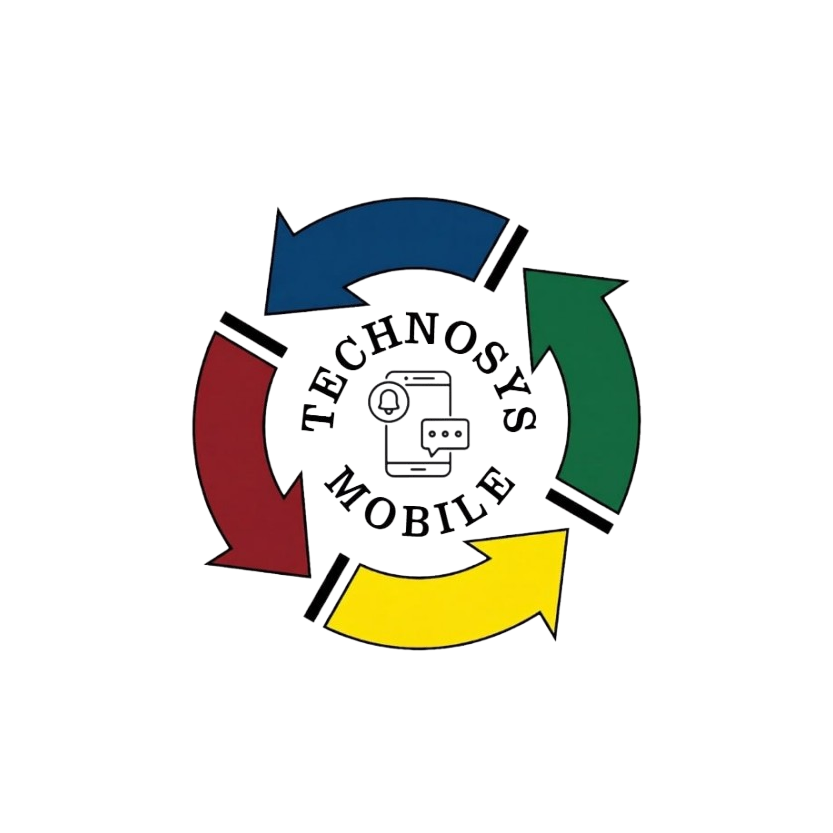
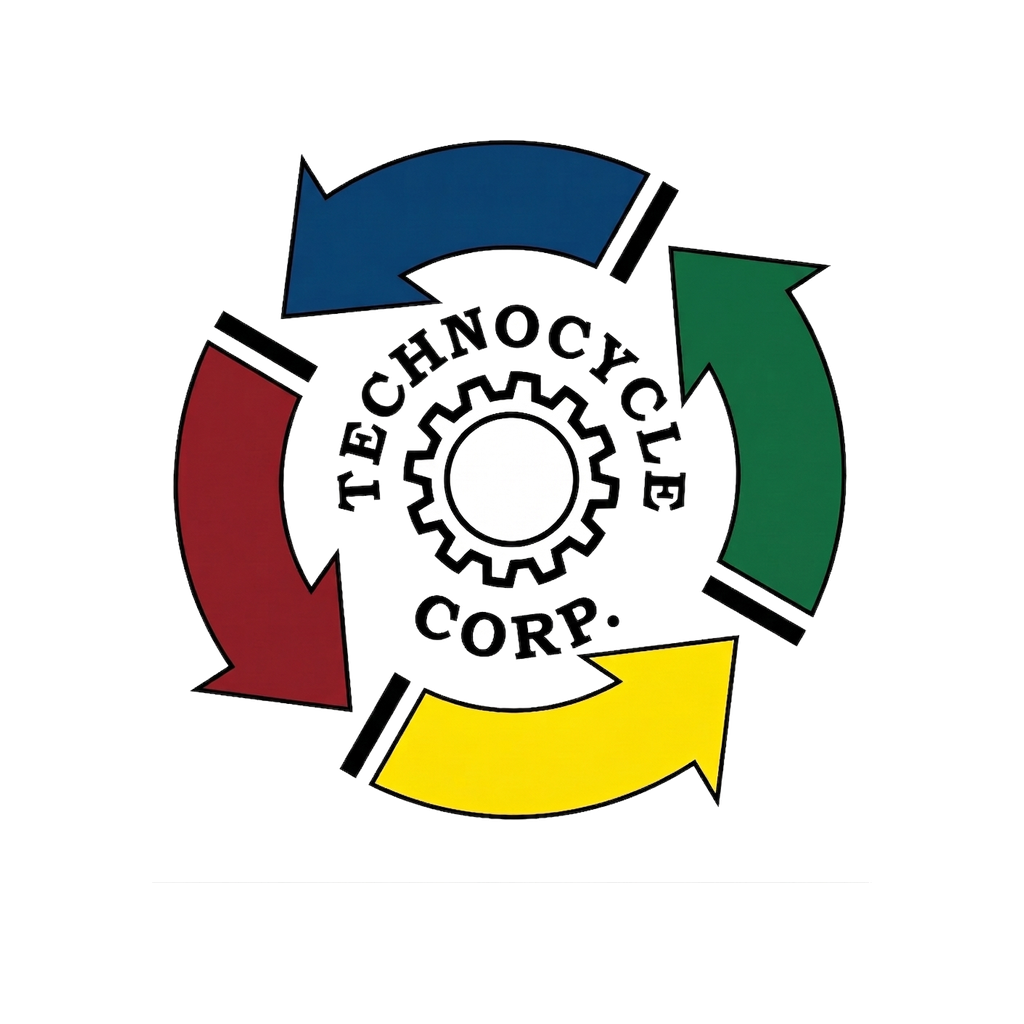
feat(mobile): Chunk 42 TechnoCycle branding, splash screen overhaul & zero-flicker lifecycle

Changed region(s): [[0.1561, 0.1248, 0.8427, 0.8115]]

diff --git a/src/app/(tabs)/index.tsx b/src/app/(tabs)/index.tsx
@@ -291,7 +291,7 @@ export default function HomeScreen() {
         items.push({
           id: 'welcome_init',
           type: 'hr',
-          title: 'Welcome to TechnoSys',
+          title: 'Welcome to TechnoCycle',
           desc: 'Operational alerts and HR ticket updates will appear here in real time.',
           time: 'Active',
           read: true,
@@ -725,7 +725,7 @@ export default function HomeScreen() {
           try {
             Notifications.scheduleNotificationAsync({
               content: {
-                title: 'TechnoSys HR Update',
+                title: 'TechnoCycle HR Update',
                 body: (payload.new.content || '').replace(/\[DECISION:.*?\]\s*/i, '').slice(0, 100),
                 data: { ticketId: payload.new.ticket_id },
               },
@@ -855,7 +855,7 @@ export default function HomeScreen() {
           </TouchableOpacity>
           <View style={styles.headerCenter}>
             <Image source={require('../../../assets/logo.png')} style={{ width: 45, height: 45, resizeMode: 'contain' }} />
-            <Text style={styles.headerTitle}>{profile ? profile.full_name : 'TechnoSys'}</Text>
+            <Text style={styles.headerTitle}>{profile ? profile.full_name : 'TechnoCycle'}</Text>
           </View>
           <TouchableOpacity style={styles.headerBtnOutline} onPress={() => setNotifVisible(true)}>
             <Feather name="bell" size={24} color="#0F172A" />
@@ -1051,7 +1051,7 @@ export default function HomeScreen() {
                   <Feather name="user" size={32} color={BRAND.blue} />
                 </View>
                 <View style={styles.profileInfo}>
-                  <Text style={styles.profileName}>{profile ? profile.full_name : 'TechnoSys'}</Text>
+                  <Text style={styles.profileName}>{profile ? profile.full_name : 'TechnoCycle'}</Text>
                   <Text style={styles.profileRole}>{profile ? profile.role.toUpperCase() : 'TECHNICIAN'}</Text>
                 </View>
                 <View style={styles.statusBadge}>

diff --git a/src/app/index.tsx b/src/app/index.tsx
@@ -2,6 +2,7 @@ import React, { useState, useEffect } from 'react';
 import { useRouter as useExpoRouter } from 'expo-router';
 import { supabase } from '../lib/supabase';
 import { LinearGradient } from 'expo-linear-gradient';
+import * as SplashScreen from 'expo-splash-screen';
 import { 
   StyleSheet, 
   Text, 
@@ -35,14 +36,20 @@ export default function RootLoginScreen() {
     supabase.auth.getSession().then(({ data: { session } }) => {
       if (session) {
         router.replace('/(tabs)');
+        // Allow tabs to mount before dismissing splash screen
+        setTimeout(() => {
+          SplashScreen.hideAsync().catch(() => {});
+        }, 120);
       } else {
         setLoading(false);
+        SplashScreen.hideAsync().catch(() => {});
       }
     });
 
     const { data: authListener } = supabase.auth.onAuthStateChange((_event, session) => {
       if (session) {
         router.replace('/(tabs)');
+        SplashScreen.hideAsync().catch(() => {});
       }
     });
     
@@ -102,11 +109,7 @@ export default function RootLoginScreen() {
   };
 
   if (loading) {
-    return (
-      <View style={styles.loadingContainer}>
-        <ActivityIndicator size="large" color={BRAND.blue} />
-      </View>
-    );
+    return null;
   }
 
   return (
@@ -122,8 +125,8 @@ export default function RootLoginScreen() {
             source={require('../../assets/logo.png')} 
             style={styles.logo}
           />
-          <Text style={styles.title}>TechnoSys Pro</Text>
-          <Text style={styles.subtitle}>Technician Action Kiosk</Text>
+          <Text style={styles.title}>TechnoCycle</Text>
+          <Text style={styles.subtitle}>Field Service Operations</Text>
 
           <View style={styles.inputCard}>
             

diff --git a/src/app/_layout.tsx b/src/app/_layout.tsx
@@ -19,11 +19,13 @@ export default function RootLayout() {
     'DMSans-Bold': DMSans_700Bold,
   });
 
+  // 4-second maximum safety fallback so splash screen never locks under an unexpected network freeze
   useEffect(() => {
-    if (fontsLoaded || fontError) {
-      SplashScreen.hideAsync();
-    }
-  }, [fontsLoaded, fontError]);
+    const timer = setTimeout(() => {
+      SplashScreen.hideAsync().catch(() => {});
+    }, 4000);
+    return () => clearTimeout(timer);
+  }, []);
 
   useEffect(() => {
     const onBackPress = () => {
@@ -32,7 +34,7 @@ export default function RootLayout() {
         return true;
       } else {
         // At root (Home or Login)
-        Alert.alert('Exit App', 'Are you sure you want to exit TechnoSys Mobile?', [
+        Alert.alert('Exit App', 'Are you sure you want to exit TechnoCycle?', [
           {
             text: 'Cancel',
             onPress: () => null,

diff --git a/scripts/generate_splash_assets.py b/scripts/generate_splash_assets.py
@@ -1,0 +1,113 @@
+import os
+from PIL import Image, ImageDraw, ImageFont
+
+def generate_assets():
+    base_dir = os.path.dirname(os.path.dirname(os.path.abspath(__file__)))
+    assets_dir = os.path.join(base_dir, 'assets', 'images')
+    logo_path = os.path.join(assets_dir, 'technocycle_logo.png')
+    trans_logo_path = os.path.join(assets_dir, 'technocycle_logo_transparent.png')
+
+    if not os.path.exists(trans_logo_path):
+        import collections
+        img = Image.open(logo_path).convert('RGBA')
+        w, h = img.size
+        pixels = img.load()
+        visited = set()
+        queue = collections.deque([(0, 0), (w-1, 0), (0, h-1), (w-1, h-1)])
+        for pt in list(queue):
+            visited.add(pt)
+        while queue:
+            x, y = queue.popleft()
+            r, g, b, a = pixels[x, y]
+            if r > 240 and g > 240 and b > 240:
+                pixels[x, y] = (r, g, b, 0)
+                for dx, dy in [(-1, 0), (1, 0), (0, -1), (0, 1)]:
+                    nx, ny = x + dx, y + dy
+                    if 0 <= nx < w and 0 <= ny < h and (nx, ny) not in visited:
+                        visited.add((nx, ny))
+                        nr, ng, nb, _ = pixels[nx, ny]
+                        if nr > 235 and ng > 235 and nb > 235:
+                            queue.append((nx, ny))
+        img.save(trans_logo_path)
+
+    orig = Image.open(trans_logo_path)
+    bbox = orig.getbbox()
+    emblem = orig.crop(bbox)
+
+    # 1. SPLASH ICON (Lockup: Emblem + 'TECHNOCYCLE' + 'FIELD OPERATIONS')
+    canvas_w, canvas_h = 600, 680
+    splash = Image.new('RGBA', (canvas_w, canvas_h), (255, 255, 255, 0))
+
+    target_emblem_w = 380
+    ratio = target_emblem_w / emblem.width
+    target_emblem_h = int(emblem.height * ratio)
+    emblem_resized = emblem.resize((target_emblem_w, target_emblem_h), Image.Resampling.LANCZOS)
+
+    emblem_x = (canvas_w - target_emblem_w) // 2
+    emblem_y = 30
+    splash.paste(emblem_resized, (emblem_x, emblem_y), emblem_resized)
+
+    draw = ImageDraw.Draw(splash)
+    font_title = ImageFont.truetype('C:/Windows/Fonts/segoeuib.ttf', 48)
+    font_sub = ImageFont.truetype('C:/Windows/Fonts/segoeui.ttf', 19)
+
+    title_text = 'TECHNOCYCLE'
+    sub_text = 'FIELD OPERATIONS'
+
+    t_bbox = draw.textbbox((0, 0), title_text, font=font_title)
+    t_w = t_bbox[2] - t_bbox[0]
+    t_x = (canvas_w - t_w) // 2
+    t_y = emblem_y + target_emblem_h + 24
+    draw.text((t_x, t_y), title_text, fill=(15, 23, 42, 255), font=font_title)
+
+    spaced_sub = '  '.join(list(sub_text))
+    s_bbox = draw.textbbox((0, 0), spaced_sub, font=font_sub)
+    s_w = s_bbox[2] - s_bbox[0]
+    s_x = (canvas_w - s_w) // 2
+    s_y = t_y + 58
+    draw.text((s_x, s_y), spaced_sub, fill=(100, 116, 139, 255), font=font_sub)
+
+    pad = 20
+    s_bbox = splash.getbbox()
+    splash_cropped = splash.crop((max(0, s_bbox[0]-pad), max(0, s_bbox[1]-pad), min(canvas_w, s_bbox[2]+pad), min(canvas_h, s_bbox[3]+pad)))
+    splash_cropped.save(os.path.join(assets_dir, 'splash-icon.png'))
+    print('1. Generated splash-icon.png:', splash_cropped.size)
+
+    # 2. ANDROID ADAPTIVE FOREGROUND (432x432)
+    fg_size = 432
+    fg = Image.new('RGBA', (fg_size, fg_size), (255, 255, 255, 0))
+    fg_emblem_w = 260
+    fg_ratio = fg_emblem_w / emblem.width
+    fg_emblem_h = int(emblem.height * fg_ratio)
+    fg_emblem = emblem.resize((fg_emblem_w, fg_emblem_h), Image.Resampling.LANCZOS)
+    fg.paste(fg_emblem, ((fg_size - fg_emblem_w) // 2, (fg_size - fg_emblem_h) // 2), fg_emblem)
+    fg.save(os.path.join(assets_dir, 'android-icon-foreground.png'))
+    print('2. Generated android-icon-foreground.png:', fg.size)
+
+    # 3. ANDROID ADAPTIVE BACKGROUND (432x432)
+    bg = Image.new('RGBA', (fg_size, fg_size), (255, 255, 255, 255))
+    bg.save(os.path.join(assets_dir, 'android-icon-background.png'))
+    print('3. Generated android-icon-background.png:', bg.size)
+
+    # 4. MASTER ICON (1024x1024)
+    icon_size = 1024
+    master_icon = Image.new('RGBA', (icon_size, icon_size), (255, 255, 255, 255))
+    m_emblem_w = 720
+    m_ratio = m_emblem_w / emblem.width
+    m_emblem_h = int(emblem.height * m_ratio)
+    m_emblem = emblem.resize((m_emblem_w, m_emblem_h), Image.Resampling.LANCZOS)
+    master_icon.paste(m_emblem, ((icon_size - m_emblem_w) // 2, (icon_size - m_emblem_h) // 2), m_emblem)
+
+    # 5. HEADER LOGO (512x512)
+    logo_img = Image.new('RGBA', (512, 512), (255, 255, 255, 0))
+    w = 480
+    ratio = w / emblem.width
+    h = int(emblem.height * ratio)
+    resized = emblem.resize((w, h), Image.Resampling.LANCZOS)
+    logo_img.paste(resized, ((512 - w) // 2, (512 - h) // 2), resized)
+    logo_img.save(os.path.join(base_dir, 'assets', 'logo.png'))
+    print('5. Generated assets/logo.png:', logo_img.size)
+
+if __name__ == '__main__':
+    generate_assets()
+
